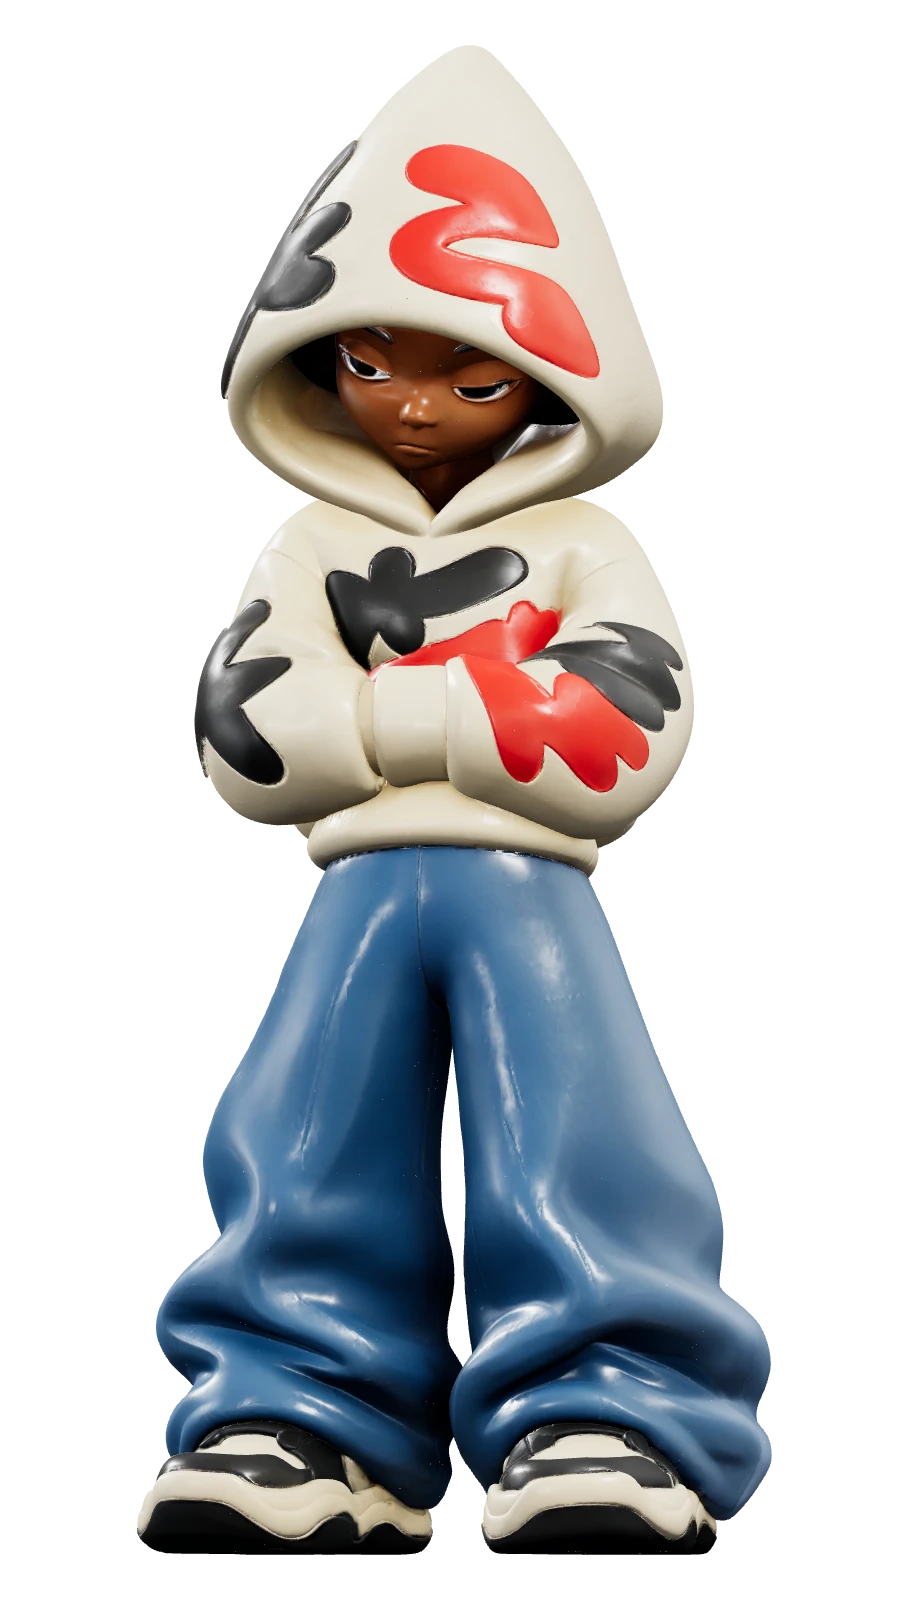
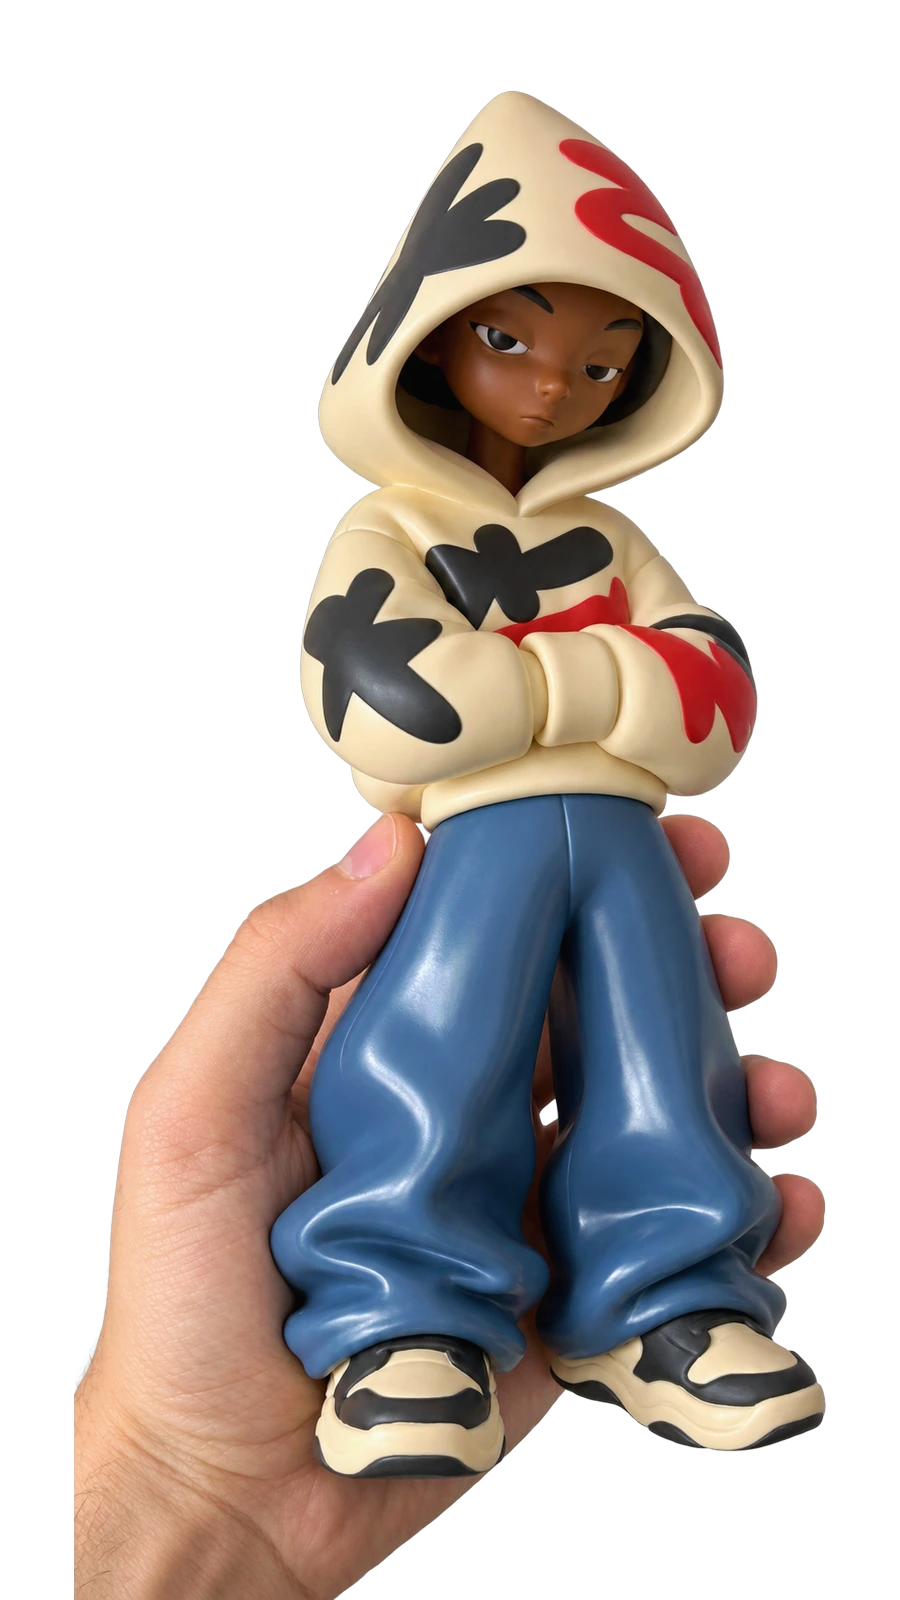
Portfolio order from Plano, drop Hoodie Kid, keychain photo, real finished figure
- Deck order: Plano, Graffiti Hood, White Angel, Red Angel, Masked One,
  Daisy Keychain, Swagify Keychain
- Hoodie Kid removed from the portfolio
- Swagify Keychain gets its interior photo
- Process: "Finished figure" is now the real photo of the figure in hand

Claude-Session: https://claude.ai/code/session_017SZetXPDQwuRRSD6hSNuqQ

diff --git a/index.html b/index.html
@@ -512,15 +512,13 @@ const ph=(k,o={})=>[o.noInterior?{slot:'In an interior',hint:'photo coming soon'
   {src:`photos/${k}-detail.webp`,label:'Detail',fit:'contain'},
   ...(o.noRuler?[]:[{src:`photos/${k}-ruler.webp`,narrow:`photos/${k}-ruler-narrow.webp`,label:'Size with a ruler',fit:'contain'}])];
 const WORKS=[
-  {name:'Hoodie Kid',img:'nova.webp',model:'figure-hd.glb',c:'#42c0ef',t:'#141414',cfg:{size:15,details:'complex',painted:true,qty:1,extras:[]},
-   photos:[{slot:'In an interior',hint:'photo coming soon'},{slot:'Detail',hint:'photo coming soon'},{slot:'Size with a ruler',hint:'photo coming soon'}]},
-  {kind:'key',logo:true,name:'Swagify Keychain',img:'keychain.webp',model:'keychain.glb',c:'#bfe9fa',t:'#141414',cfg:{size:5,pack:5,color:'Blue'},photos:ph('swagkey',{noInterior:true,noRuler:true})},
   {name:'Plano',img:'fig2.webp',model:'fig2.glb',c:'#e4e4ea',t:'#141414',cfg:{size:10,details:'complex',painted:true,qty:1,extras:[]},photos:ph('plano')},
   {name:'Graffiti Hood',img:'fig3.webp',model:'fig3.glb',c:'#f1e6d3',t:'#141414',cfg:{size:15,details:'complex',painted:true,qty:1,extras:[]},photos:ph('graffiti')},
-  {kind:'key',name:'Daisy Keychain',img:'fig1.webp',model:'fig1.glb',c:'#f6c9dc',t:'#141414',cfg:{size:5,pack:5,color:'Pink'},photos:ph('daisy')},
   {name:'White Angel',img:'fig4.webp',model:'fig4.glb',c:'#f4f4f2',t:'#141414',cfg:{size:20,details:'complex',painted:true,qty:1,extras:[]},photos:ph('whiteangel')},
   {name:'Red Angel',img:'fig5.webp',model:'fig5.glb',c:'#24378d',t:'#ffffff',cfg:{size:25,details:'complex',painted:true,qty:1,extras:[]},photos:ph('redangel')},
-  {name:'Masked One',img:'fig6.webp',model:'fig6.glb',c:'#2e2d2c',t:'#ffffff',cfg:{size:26,details:'complex',painted:true,qty:1,extras:[]},photos:ph('masked')}
+  {name:'Masked One',img:'fig6.webp',model:'fig6.glb',c:'#2e2d2c',t:'#ffffff',cfg:{size:26,details:'complex',painted:true,qty:1,extras:[]},photos:ph('masked')},
+  {kind:'key',name:'Daisy Keychain',img:'fig1.webp',model:'fig1.glb',c:'#f6c9dc',t:'#141414',cfg:{size:5,pack:5,color:'Pink'},photos:ph('daisy')},
+  {kind:'key',logo:true,name:'Swagify Keychain',img:'keychain.webp',model:'keychain.glb',c:'#bfe9fa',t:'#141414',cfg:{size:5,pack:5,color:'Blue'},photos:ph('swagkey',{noRuler:true})}
 ];
 const deck=$('deck'),N=WORKS.length;
 const typeLine=w=>w.kind==='key'?`Keychain · 5 cm · solid color`:`Figure · ${F.size.find(o=>o.id===w.cfg.size).l} · ${w.cfg.painted?'painted':'unpainted'}`;
